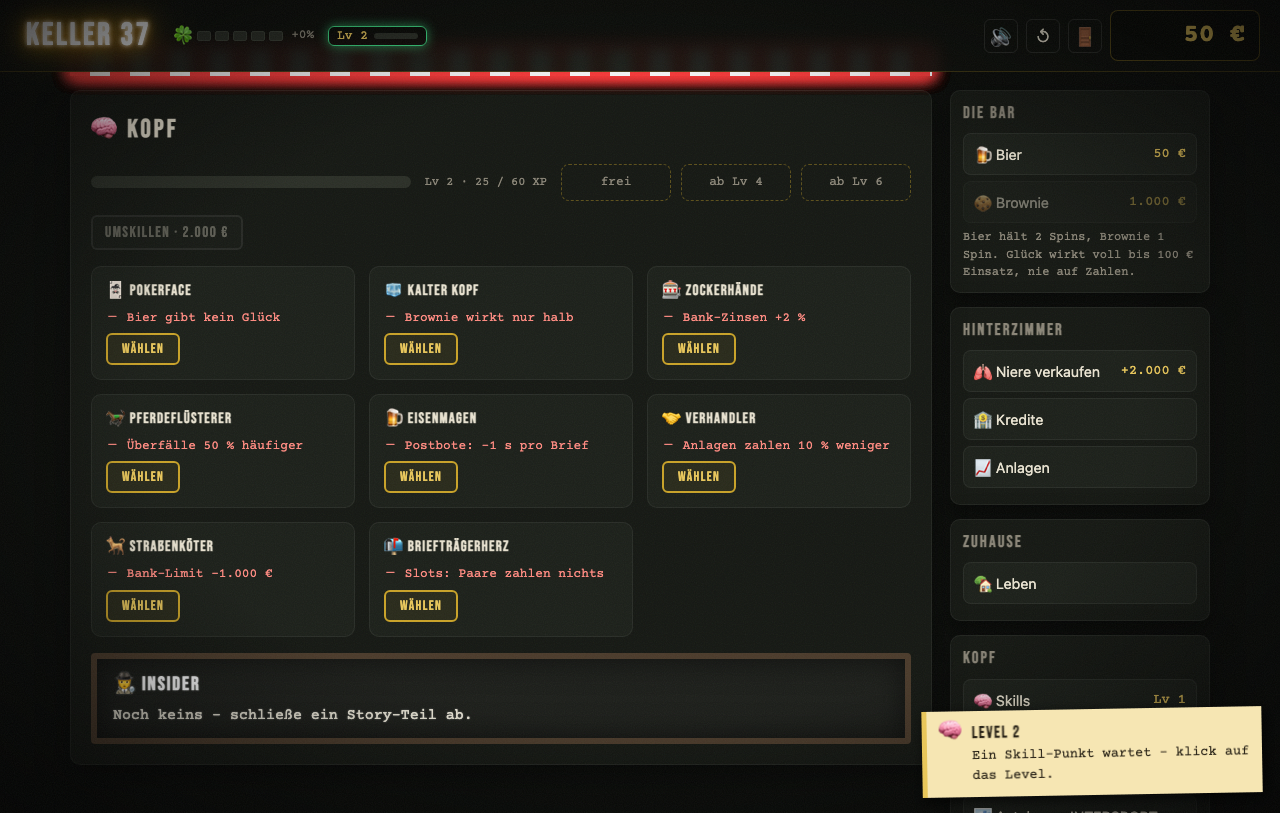
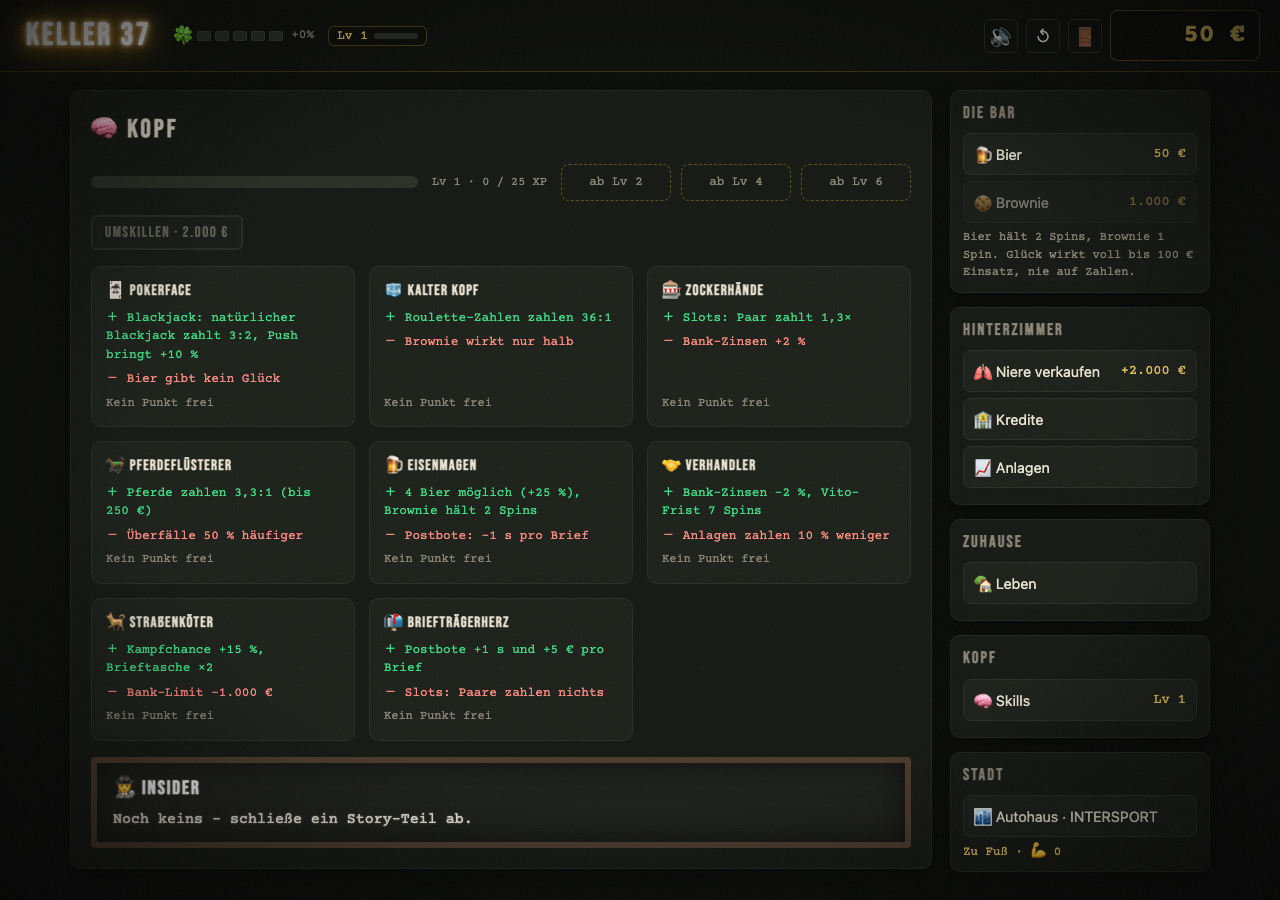
fix(perks): Lichtseite der Skill-Karten sichtbar – Klasse 'light' kollidierte mit dem Taxi-Blaulicht-Band

diff --git a/keller37.html b/keller37.html
@@ -558,7 +558,7 @@ body.mode-story #newgame, body.mode-story #toTitle { display: none; }
 .skill-card { background: var(--panel-2); border: 1px solid rgba(255,255,255,.06); border-radius: 10px; padding: 14px; display: flex; flex-direction: column; gap: 6px; }
 .skill-card.active { border-color: var(--gold); box-shadow: 0 0 14px rgba(201,162,39,.25); }
 .skill-card h4 { font-family: var(--font-display); letter-spacing: .08em; }
-.skill-card .light { color: var(--neon-green); font-family: var(--font-mono); font-size: .8rem; }
+.skill-card .skill-light { color: var(--neon-green); font-family: var(--font-mono); font-size: .8rem; }
 .skill-card .shadow { color: #ff8a80; font-family: var(--font-mono); font-size: .8rem; }
 .skill-card .reason { color: var(--dim); font-family: var(--font-mono); font-size: .75rem; margin-top: auto; }
 .skill-card .btn { margin-top: auto; align-self: flex-start; font-size: .85rem; padding: 6px 14px; }
@@ -4114,7 +4114,7 @@ const Perks = {
       const chk = Rules.canPickSkill(s, def.id);
       const card = h('div', { class: 'skill-card' + (chk.reason === 'active' ? ' active' : '') },
         h('h4', {}, `${def.icon} ${def.name}`),
-        h('div', { class: 'light' }, `＋ ${def.light}`),
+        h('div', { class: 'skill-light' }, `＋ ${def.light}`),
         h('div', { class: 'shadow' }, `－ ${def.shadow}`));
       if (chk.ok) card.append(h('button', { class: 'btn', onclick: () => this.pick(def.id) }, 'Wählen'));
       else card.append(h('div', { class: 'reason' }, this.REASON[chk.reason] || ''));
